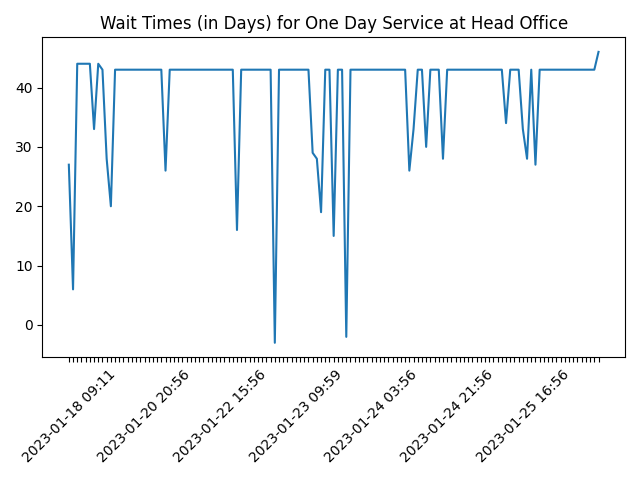
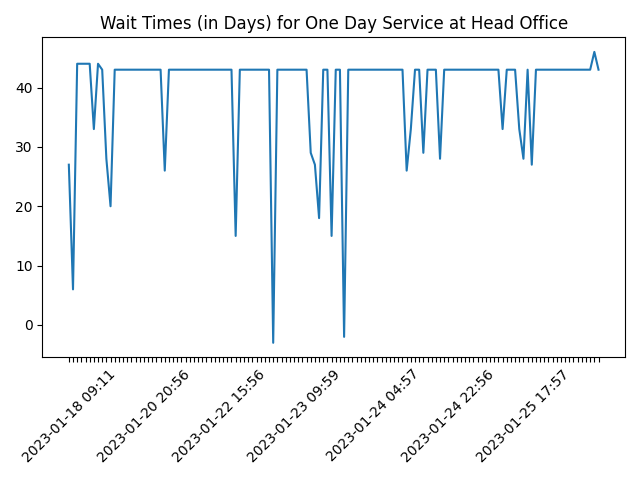
Updated data Thu Jan 26 06:27:36 UTC 2023

diff --git a/README.md b/README.md
@@ -1,20 +1,12 @@
 # Passport Application Reservation System - Availability Report
 
-*As of January 26, 2023 (10:58 AM)*
-
-## Normal Service
-
-### HEAD OFFICE - BATTARAMULLA
-
-* 2023-01-27 (1 timeslot)
-
-* 2023-04-24 (13 timeslots)
-
-* 2023-04-25 (20 timeslots)
+*As of January 26, 2023 (11:57 AM)*
 
 ## One Day Service
 
 ### HEAD OFFICE - BATTARAMULLA
+
+* 2023-03-10 (24 timeslots)
 
 * 2023-03-13 (24 timeslots)
 
@@ -39,5 +31,13 @@
 * 2023-03-27 (24 timeslots)
 
 * 2023-03-28 (24 timeslots)
+
+## Normal Service
+
+### HEAD OFFICE - BATTARAMULLA
+
+* 2023-04-24 (12 timeslots)
+
+* 2023-04-25 (20 timeslots)
 
 Data Source: [Passport Application Reservation System](https://eservices.immigration.gov.lk:8443/appointment/pages/reservationApplication.xhtml)

diff --git a/summary.md b/summary.md
@@ -2,7 +2,7 @@
 
 Of the data from the Passport Application Reservation System of the Sri Lanka Department of Immigration and Emigration.
 
-*As of 2023-01-26 10:58:22*
+*As of 2023-01-26 11:57:34*
 
 ![Wait Time Chart](summary.wait_time_chart.png)
 
